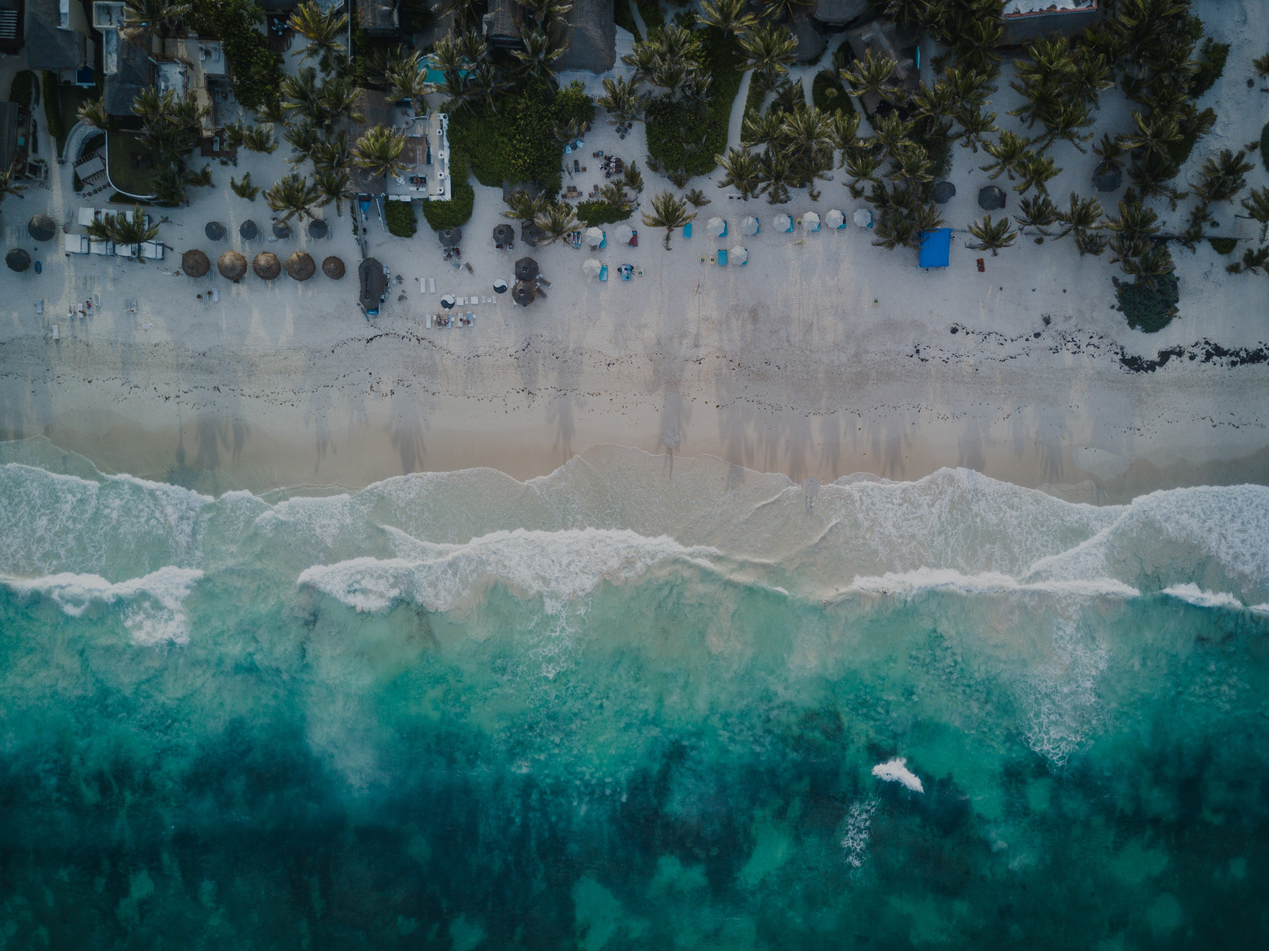
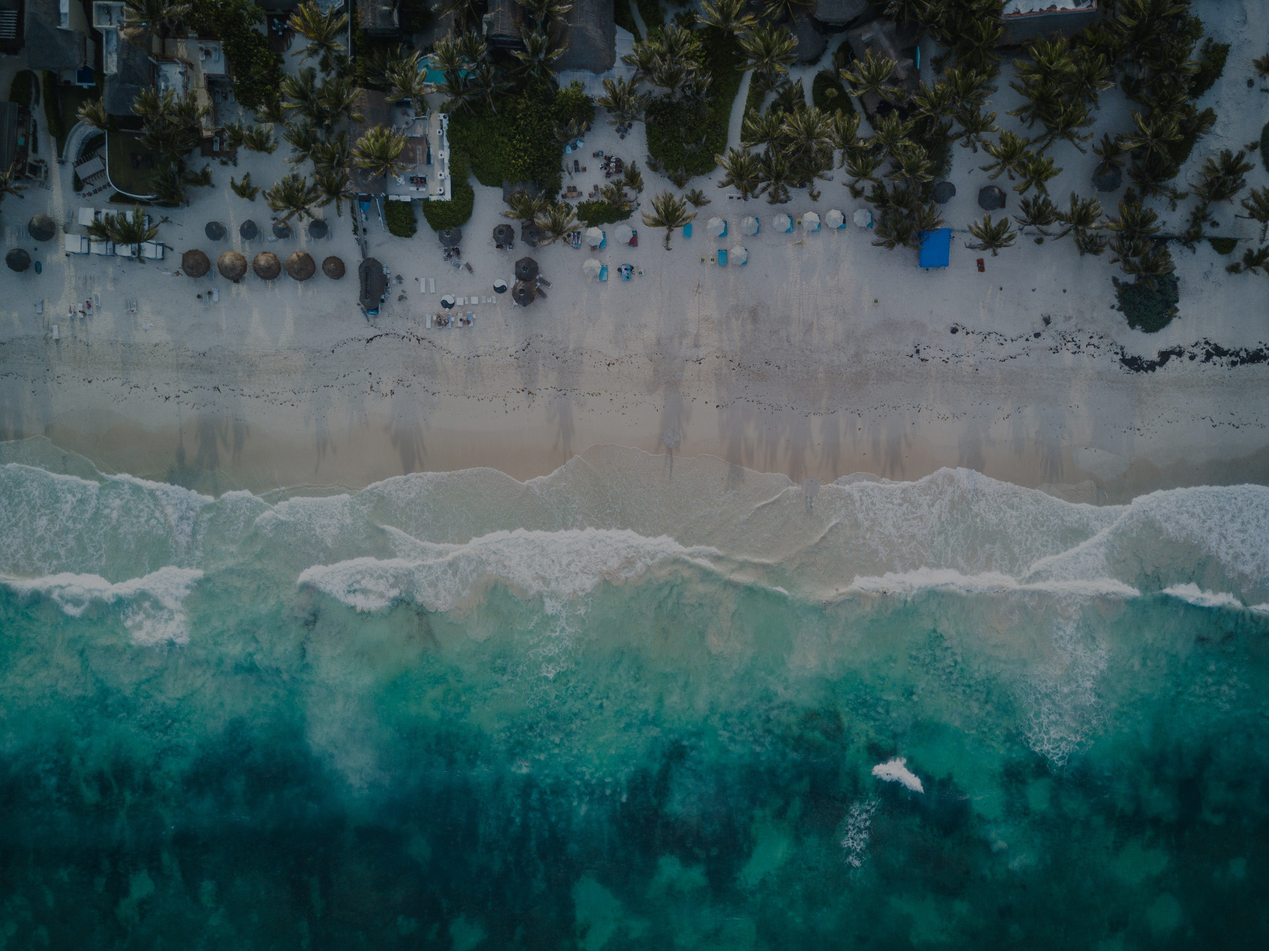
Scale Improvements
+ Improved support for mobile phones
+ Slightly darkened Banner image
+ Changed sizing of some elements

diff --git a/style.css b/style.css
@@ -25,6 +25,7 @@ h1, h2
 	animation-name: fadein;
 	animation-duration: 2.5s;
 	animation-timing-function: ease-out;
+	font-size: 5vw; 
 }
 
 h3, h4
@@ -88,7 +89,7 @@ a:hover
 .parallax 
 {
 	background-image: url("BannerBeach.jpg");
-	height: 1000px;
+	height: 100vh;
 	background-attachment: fixed;
 	background-position: center;
 	background-repeat: no-repeat;
@@ -161,7 +162,7 @@ a:hover
 
 #projects-button
 {
-	font-size: 1.5vw;
+	font-size: 25px;
 	font-weight: bold;
 	color: white;
 	border-bottom: 5px solid gray;
@@ -183,6 +184,24 @@ a:hover
 	text-align:center;
 }
 
+#nextplease-container 
+ {
+	width: 100%
+    display: flex;
+	justify-content: center;
+	align-items: center;
+}
+
+#nextplease-images
+{
+	width: 815px; 
+	height: 460px;
+}
+
+#kingsley-image
+{
+	width:35%;
+}
 
 /* Flickity Carousel Style */
 .carousel
@@ -208,18 +227,99 @@ a:hover
 /* Adjustments for Phones */ 
 @media screen and (max-width:800px)
 {
-	p
+	h1
 	{
-		font-size:15px;
+		font-size: 10vw;
 	}
 	
+	p
+	{
+		font-size:18px;
+	}
+	
+	/* About Section */
+	#about-container
+	{
+		height: 90vh;
+		display: flex;
+		justify-content: center;
+		align-items: center;
+		flex-direction: column;
+	}
+	
+	#box
+	{
+		display: flex;
+		justify-content: center;
+		align-items: center;
+		flex-direction: column;
+		width: 100%;
+		height: 100%;
+	}
+	
+	#about-images
+	{
+		width: 20vw;
+		height: 20vw; 
+		margin: 20px; 
+	}
+	
+	#about-headers
+	{
+		font-size: 6vw;
+	}
+	
+	#about-education-container
+	{
+		height: fit-content; 
+		padding-bottom: 25px;
+	}
+	/* About Section End */ 
+	
+	
+	/* Next Please Carousel */
 	.carousel
 	{
 		width: 100%;
 	}
+	
 	.container 
 	{
 	  width: 100%;	  
+	}
+	
+	#nextplease-images
+	{
+		width: 100vw; 
+		height: inherit;
+	}
+	/* Next Please End */ 
+	
+	#kingsley-image
+	{
+		width:100%;
+	}
+	
+	#projects-container
+	{
+		height: fit-content;
+		background-color: dodgerblue;
+	}
+	
+	#projects-button
+	{
+		font-size: 20px;
+		margin-left: 20%;
+		margin-right: 20%;
+		padding-top: 0px;
+		border-bottom: 0px solid gray;
+		border: 5px solid gray;
+	}
+	
+	#projects-button:hover
+	{
+		border-bottom: 0px solid white;
+		border: 5px solid white;
 	}
 	
 	#banner
@@ -229,8 +329,8 @@ a:hover
 	
 	#paragraphs
 	{
-		left:1%;
-		right:1%;
-		width: 95%;
+		width: 90%;
+		padding-left: 5%;
+		padding-right: 0%;
 	}
 }

diff --git a/index.html b/index.html
@@ -94,19 +94,19 @@
 			"autoPlay":5000,"pageDots":false, "friction": 0.75, "contain":true}'>
 		  
 		  <div class="gallery-cell">
-			<img src="NextPlease1.jpg" alt="info1"  width="815px" height="460px"/>
+			<img src="NextPlease1.jpg" alt="Next Please Menu"  id="nextplease-images"/>
 		  </div> 
 		  
 		  <div class="gallery-cell">
-			<img src="NextPlease2.jpg" alt="info2" width="815px" height="460px"/>
+			<img src="NextPlease2.jpg" alt="Next Please Store" id="nextplease-images"/>
 		  </div>
 		  		  
 		  <div class="gallery-cell">
-			<img src="NextPlease3.jpg" alt="info4" width="815px" height="460px"/>
+			<img src="NextPlease3.jpg" alt="Next Please Thief" id="nextplease-images"/>
 		  </div>
 		  
 		  <div class="gallery-cell">
-			<img src="NextPlease4.jpg" alt="info4" width="815px" height="460px"/>
+			<img src="NextPlease4.jpg" alt="Next Please Combo" id="nextplease-images"/>
 		  </div>
 		  
 		</div>
@@ -129,7 +129,7 @@
 		
 	</div> 
 	
-	<img src="Kingsley.jpg" alt="Kingsley Website" style="width:35%;">
+	<img src="Kingsley.jpg" alt="Kingsley Website" id="kingsley-image"">
 	
 	<div id="paragraphs">
 			
